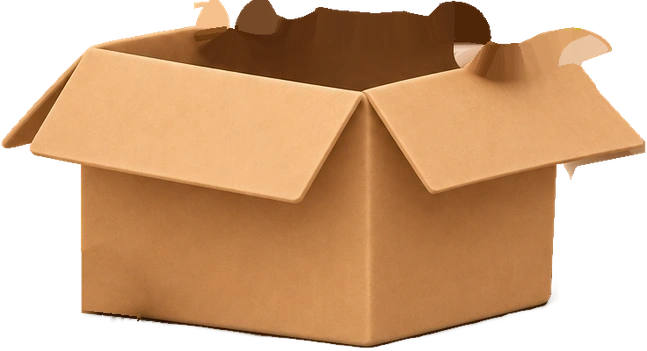
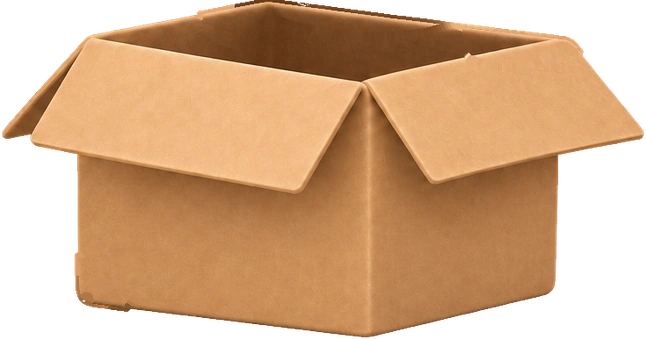
🐛 fix(not-found): use the complete painted box with its own front corner
The box is the new painting, registered on the scene's origin, its faint glow and stray specks cleared, and exported the same way as the other layers. It brings a whole front-left corner and a clean floor edge in place of the rebuilt corner behind the paper.

Changed region(s): [[0.1238, 0.0, 1.0, 0.885], [0.0, 0.1475, 0.805, 1.0], [0.6192, 0.413, 0.6502, 0.5015]]

diff --git a/components/lost-cat.tsx b/components/lost-cat.tsx
@@ -22,7 +22,7 @@ const P = {
   // its own.
   tail: { left: 78.87, top: 0.601, width: 19.665, w: 165, h: 344 },
   body: { left: 61.611, top: 28.726, width: 37.971, w: 319, h: 452 },
-  box: { left: 7.427, top: 51.683, width: 76.987, w: 647, h: 351 },
+  box: { left: 7.322, top: 53.005, width: 76.883, w: 646, h: 339 },
   "neck-under": { left: 37.657, top: 25.841, width: 34.623, w: 291, h: 240 },
   "head-under": { left: 28.766, top: 21.274, width: 43.515, w: 366, h: 273 },
   "head-base": { left: 28.766, top: 21.274, width: 43.515, w: 366, h: 273 },
